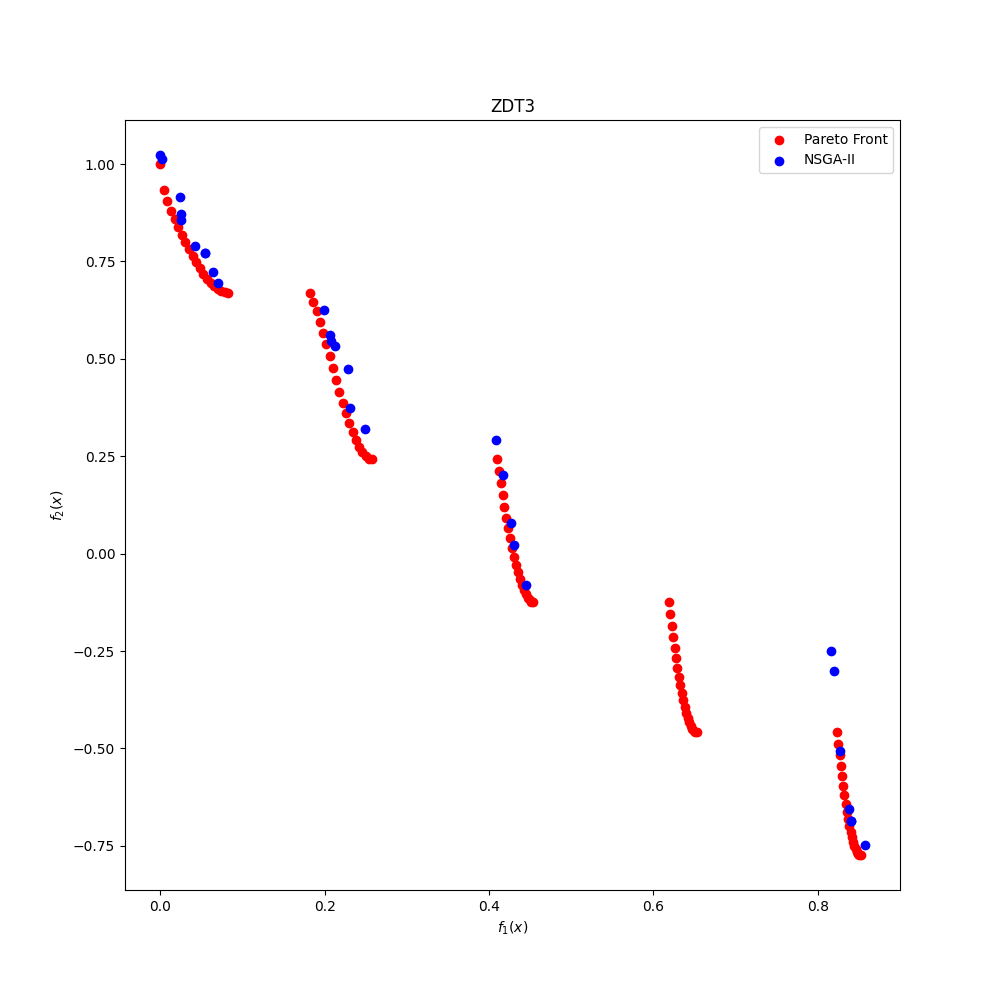
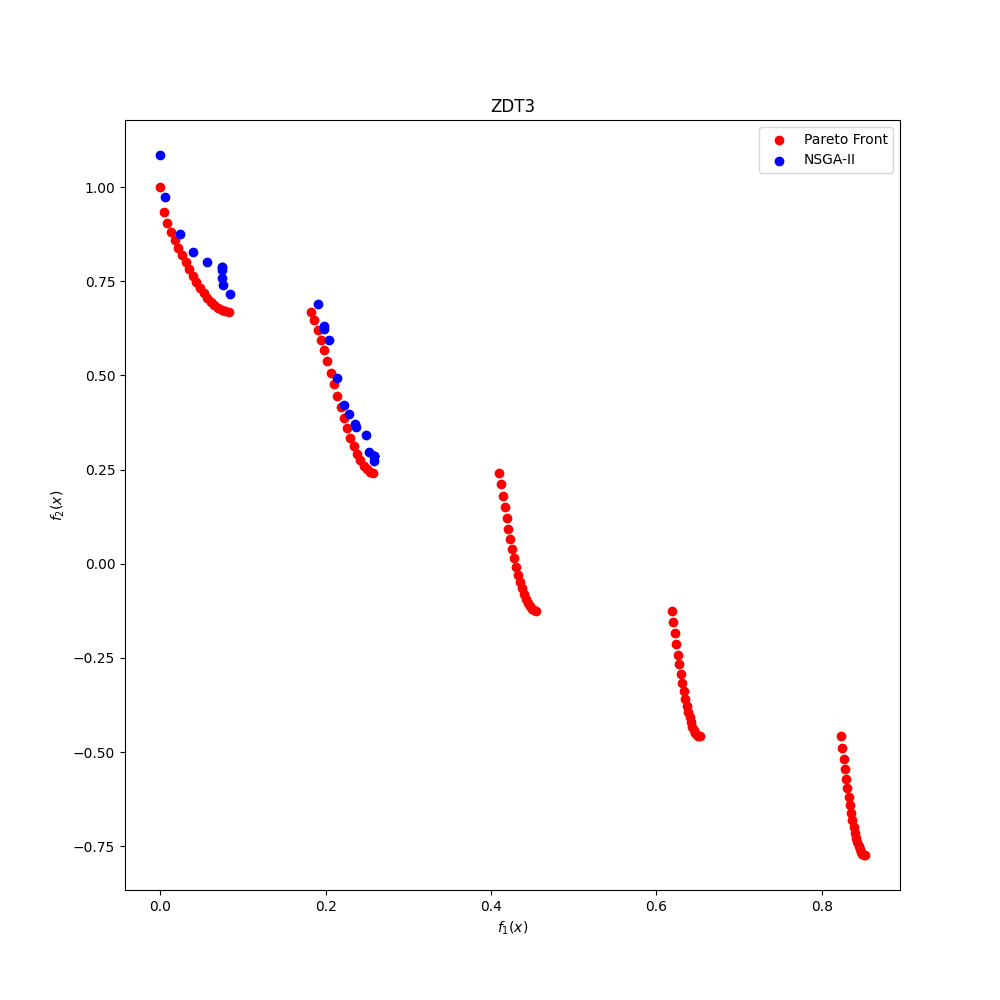
rerun tests

diff --git a/zdt_test.py b/zdt_test.py
@@ -26,7 +26,7 @@ def main():
         problem.n_var, objectives, problem.pareto_front(), lower_bound, upper_bound
     )
 
-    mcga = MCGA(moop, 20, 50, 0.9, 2, 1, 1, np.pi, 20, 0.01)
+    mcga = MCGA(moop, 120, 50, 0.9, 2, 1, 1, np.pi, 20, 0.01)
 
     # clearing the gif_images directory
     for image in os.listdir("gif_images"):

diff --git a/mcga/model.py b/mcga/model.py
@@ -129,7 +129,7 @@ class MCGA(NSGA2):
         # ]
         sliced_population = [slc for slc in sliced_population if len(slc) > 0]
 
-        self.plot_monte_carlo(sliced_population, sectors)
+        # self.plot_monte_carlo(sliced_population, sectors)
 
         return sliced_population
 
